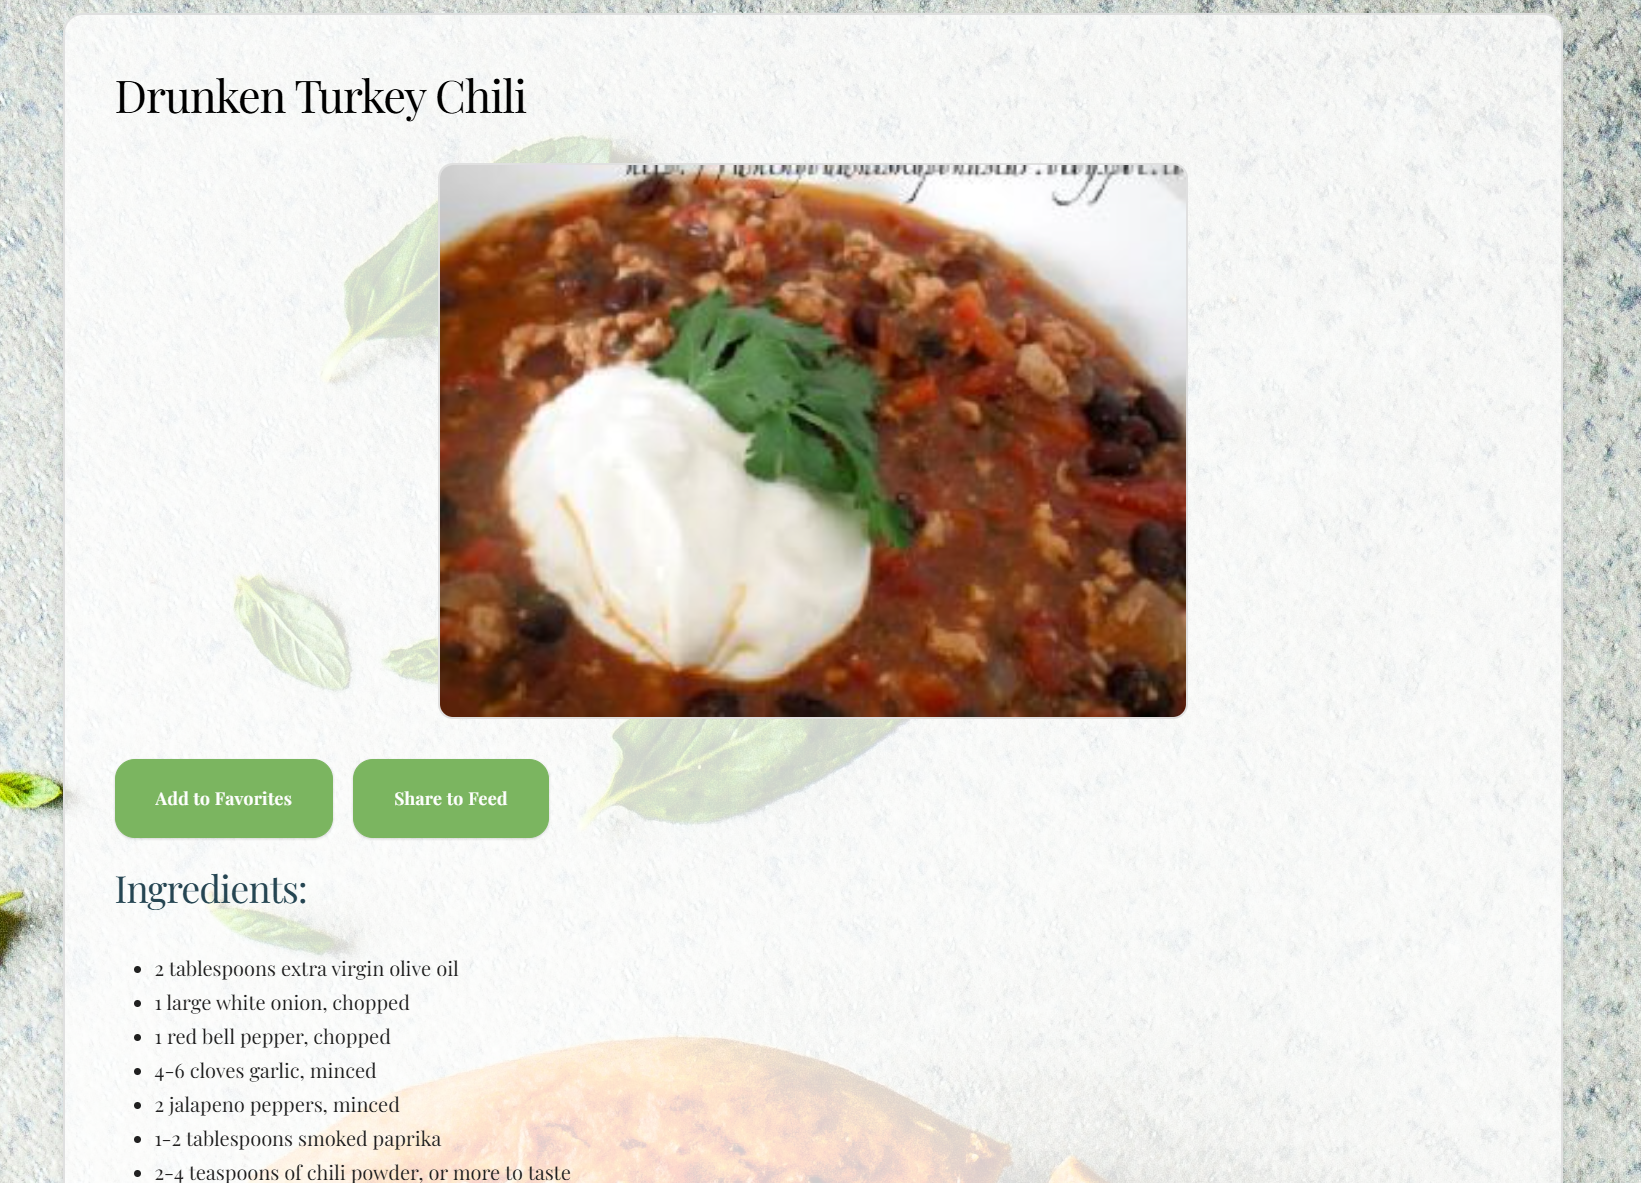
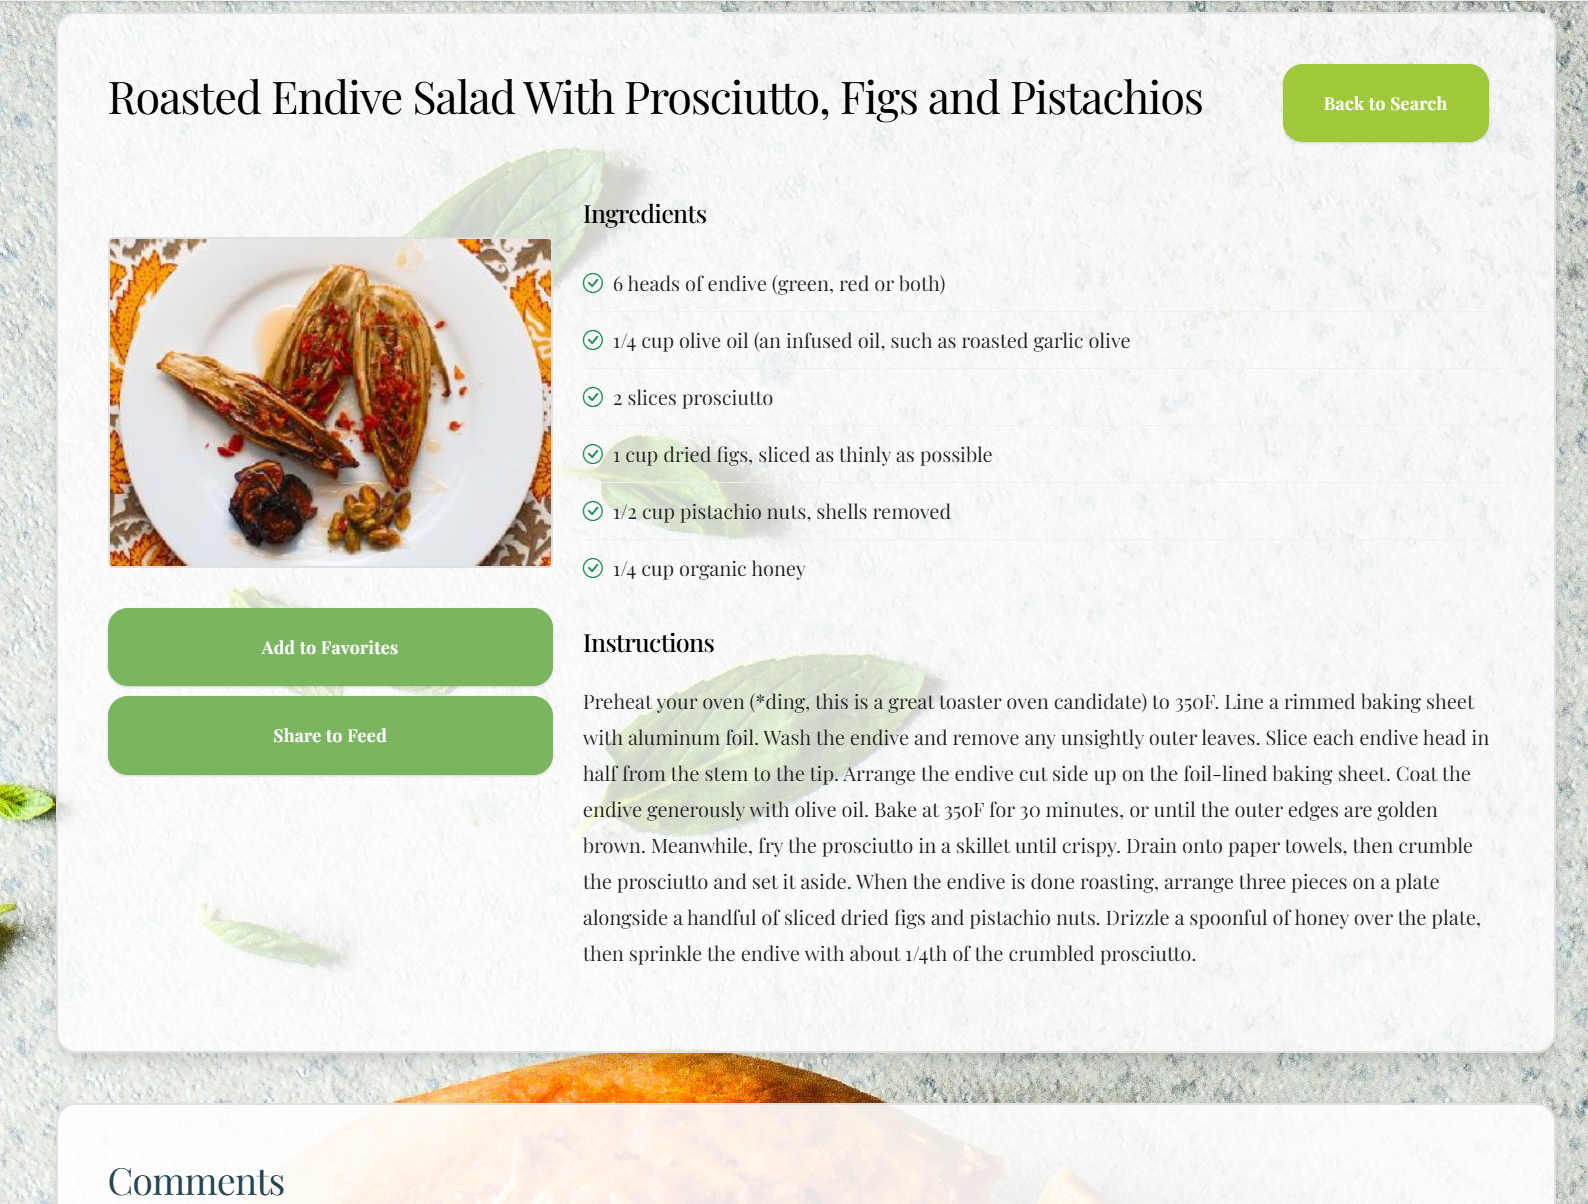
tidied up some CSS, added more readme images

diff --git a/search/templates/search/detail.html b/search/templates/search/detail.html
@@ -2,36 +2,62 @@
 
 {% block content %}
 <div id="recipe-container">
-    <h1>{{ recipe.title }}</h1>
-    <img src="{{ recipe.image }}" alt="{{ recipe.title }}" class="recipe-image">
+    <div class="row">
+        <div class="col-12">
+            <div class="d-flex justify-content-between align-items-center mb-4">
+                <h1>{{ recipe.title }}</h1>
+                <div>
+                    <a href="{% url 'search_recipes' %}" class="btn btn-outline-primary">Back to Search</a>
+                </div>
+            </div>
+            
+            <div class="row">
+                <div class="col-md-4">
+                    <img src="{{ recipe.image }}" alt="{{ recipe.title }}" class="img-fluid rounded recipe-image">
+                    
+                    <div class="mt-3">
+                        {% if user.is_authenticated %}
+                            {% if is_saved %}
+                                <button type="button" class="btn btn-success w-100 mb-2" disabled>✓ Already in Favorites</button>
+                            {% else %}
+                                <form method="post" action="{% url 'save_recipe' recipe.id %}">
+                                    {% csrf_token %}
+                                    <button type="submit" class="btn btn-primary w-100 mb-2">Add to Favorites</button>
+                                </form>
+                            {% endif %}
+                            
+                            <!-- Share Button -->
+                            <button type="button" class="btn btn-info w-100" data-bs-toggle="modal" data-bs-target="#shareModal">
+                                Share to Feed
+                            </button>
+                        {% else %}
+                            <p class="text-center"><a href="/accounts/login/">Log in</a> to save this recipe to your favorites.</p>
+                        {% endif %}
+                    </div>
+                </div>
+                
+                <div class="col-md-8">
+                    <div class="mb-4">
+                        <h4>Ingredients</h4>
+                        <div class="ingredients-list">
+                            {% for ingredient in recipe.extendedIngredients %}
+                                <div class="ingredient-item">
+                                    <i class="bi bi-check-circle text-success me-2"></i>{{ ingredient.original }}
+                                </div>
+                            {% endfor %}
+                        </div>
+                    </div>
 
-    {% if user.is_authenticated %}
-        {% if is_saved %}
-            <button type="button" class="btn btn-success" disabled>✓ Already in Favorites</button>
-        {% else %}
-            <form method="post" action="{% url 'save_recipe' recipe.id %}" style="display: inline;">
-                {% csrf_token %}
-                <button type="submit" class="btn btn-primary">Add to Favorites</button>
-            </form>
-        {% endif %}
-        
-        <!-- Share Button -->
-        <button type="button" class="btn btn-info" data-bs-toggle="modal" data-bs-target="#shareModal">
-            Share to Feed
-        </button>
-    {% else %}
-        <p><a href="/accounts/login/">Log in</a> to save this recipe to your favorites.</p>
-    {% endif %}
-
-    <h2>Ingredients:</h2>
-    <ul>
-    {% for ingredient in recipe.extendedIngredients %}
-    <li>{{ ingredient.original }}</li>
-    {% endfor %}
-    </ul>
-
-    <h2>Instructions:</h2>
-    <p>{{ recipe.instructions|safe }}</p>
+                    <div class="mb-4">
+                        <h4>Instructions</h4>
+                        <div class="instructions-content">
+                            {{ recipe.instructions|safe }}
+                        </div>
+                    </div>
+                </div>
+            </div>
+        </div>
+    </div>
 </div>
 
 <!-- Share Modal -->

diff --git a/static/CSS/style.css b/static/CSS/style.css
@@ -158,10 +158,13 @@ a {
 }
 
 .content-wrapper {
-    background:	rgb(154, 181, 142, 0.7);
+    background: rgba(154, 181, 142, 0.7) !important;
     border-radius: var(--border-radius-lg);
     padding: var(--spacing-2xl);
     margin-bottom: var(--spacing-xl);
+}
+#created-detail {
+    background: rgba(154, 181, 142, 0.7) !important;
 }
 
 /* For screens 768px and above, limit the width */
@@ -766,6 +769,24 @@ a {
     flex: 1;
 }
 
+/* Ingredients and Instructions styling */
+.ingredient-item {
+    padding: 0.5rem 0;
+    border-bottom: 1px solid #f0f0f0;
+}
+
+.ingredient-item:last-child {
+    border-bottom: none;
+}
+
+.ingredients-list {
+    line-height: 1.8;
+}
+
+.instructions-content {
+    line-height: 1.8;
+}
+
 /* ============================================
    COMMENTS SECTION
    ============================================ */
@@ -1084,6 +1105,7 @@ a {
     .content-wrapper {
         padding: var(--spacing-md);
         min-width: 100%;
+        background-color:rgb(154, 181, 142, 0.9);
     }
     
     #recipe-container {
@@ -1260,9 +1282,10 @@ a {
 /* Saved recipes grid layout */
 .saved-recipes-grid {
     display: grid;
-    grid-template-columns: repeat(auto-fill, minmax(300px, 1fr));
+    grid-template-columns: repeat(auto-fill, minmax(300px, 300px));
     gap: var(--spacing-xl);
     margin-top: var(--spacing-lg);
+    justify-content: start;
 }
 
 .saved-recipes-grid .recipe-card {
@@ -1374,6 +1397,13 @@ a {
 }
 
 /* Responsive adjustments for my recipes */
+@media (min-width: 769px) {
+    .saved-recipes-grid {
+        grid-template-columns: repeat(auto-fill, minmax(300px, 300px));
+        justify-content: start;
+    }
+}
+
 @media (max-width: 768px) {
     .container {
         padding-left: var(--spacing-md);
@@ -1383,6 +1413,7 @@ a {
     .saved-recipes-grid {
         grid-template-columns: 1fr;
         gap: var(--spacing-lg);
+        justify-content: stretch;
     }
     
     .saved-recipes-grid .button-group {

diff --git a/blog/templates/created_recipe_detail.html b/blog/templates/created_recipe_detail.html
@@ -2,8 +2,7 @@
 {% load static %}
 
 {% block content %}
-<div class="content-wrapper">
-    <div class="container">
+<div id="recipe-container">
     <div class="row">
         <div class="col-12">
             <div class="d-flex justify-content-between align-items-center mb-4">
@@ -66,6 +65,5 @@
             </div>
         </div>
     </div>
-</div>
 </div>
 {% endblock %}

diff --git a/blog/templates/public_created_recipe_detail.html b/blog/templates/public_created_recipe_detail.html
@@ -2,7 +2,7 @@
 {% load static %}
 
 {% block content %}
-<div class="container">
+<div id="recipe-container">
     <div class="row">
         <div class="col-12">
             <div class="d-flex justify-content-between align-items-center mb-4">

diff --git a/README.md b/README.md
@@ -55,7 +55,7 @@ A food blogging site where users can create, search and share recpies.
 -Settings persist across sessions.
 
 ## Github projects board
-<img src="<img src="static/images/README/hero.png" alt="Github user stories" width="600">
+<img src="static/images/README/github.png" alt="Github user stories" width="600">
 GitHub projects was used for scoping and planning. Using MoSCoW labels for feature prioritization.
 As the sections took time to develop, I reviewed these weekly and ajusted when nessicary.   
 
@@ -189,7 +189,7 @@ After conducting research on various food blogs the design consensus seems to be
 
 ## Cloud Services & APIs
 - **Cloudinary 1.36.0** - Image storage and management
-- **Spoonacular API** (via requests 2.32.5) - Recipe data integration
+- **Spoonacular API** - Recipe data integration
 
 ## Static Files & Deployment
 - **WhiteNoise 6.11.0** - Static file serving
@@ -243,7 +243,7 @@ After conducting research on various food blogs the design consensus seems to be
 
 *Recipe detail page showing API-fetched recipe with full information*
 
-<img src="static/images/README/user%20recipe.png" alt="User Created Recipe" width="600">
+<img src="static/images/README/userrecipe.png" alt="User Created Recipe" width="600">
 
 *User-created recipe detail view with custom content*
 
